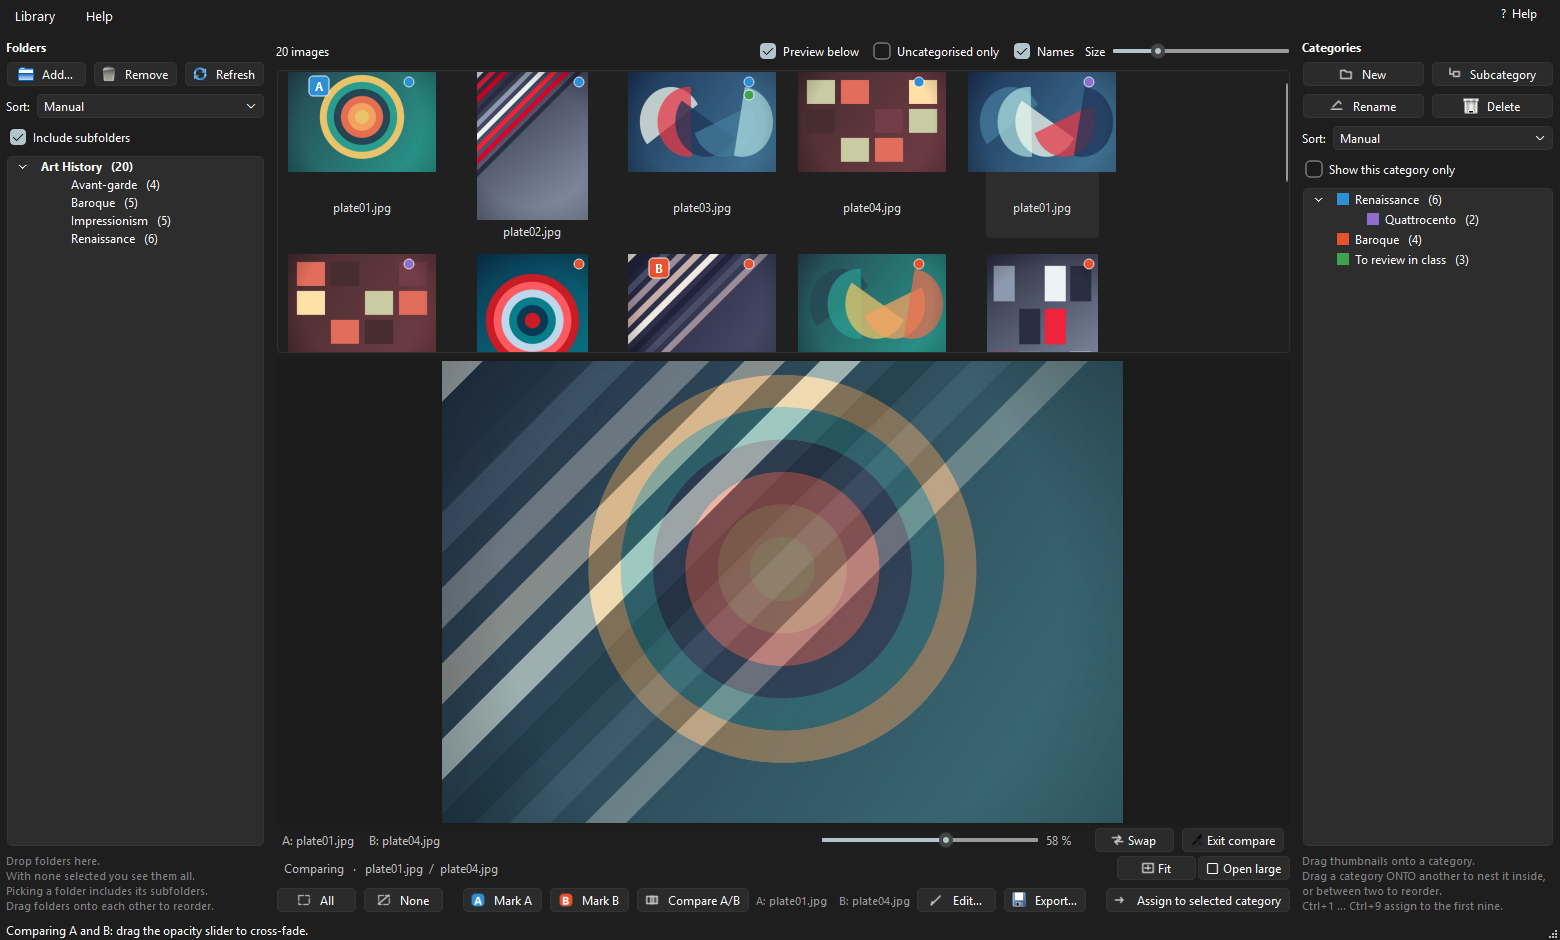
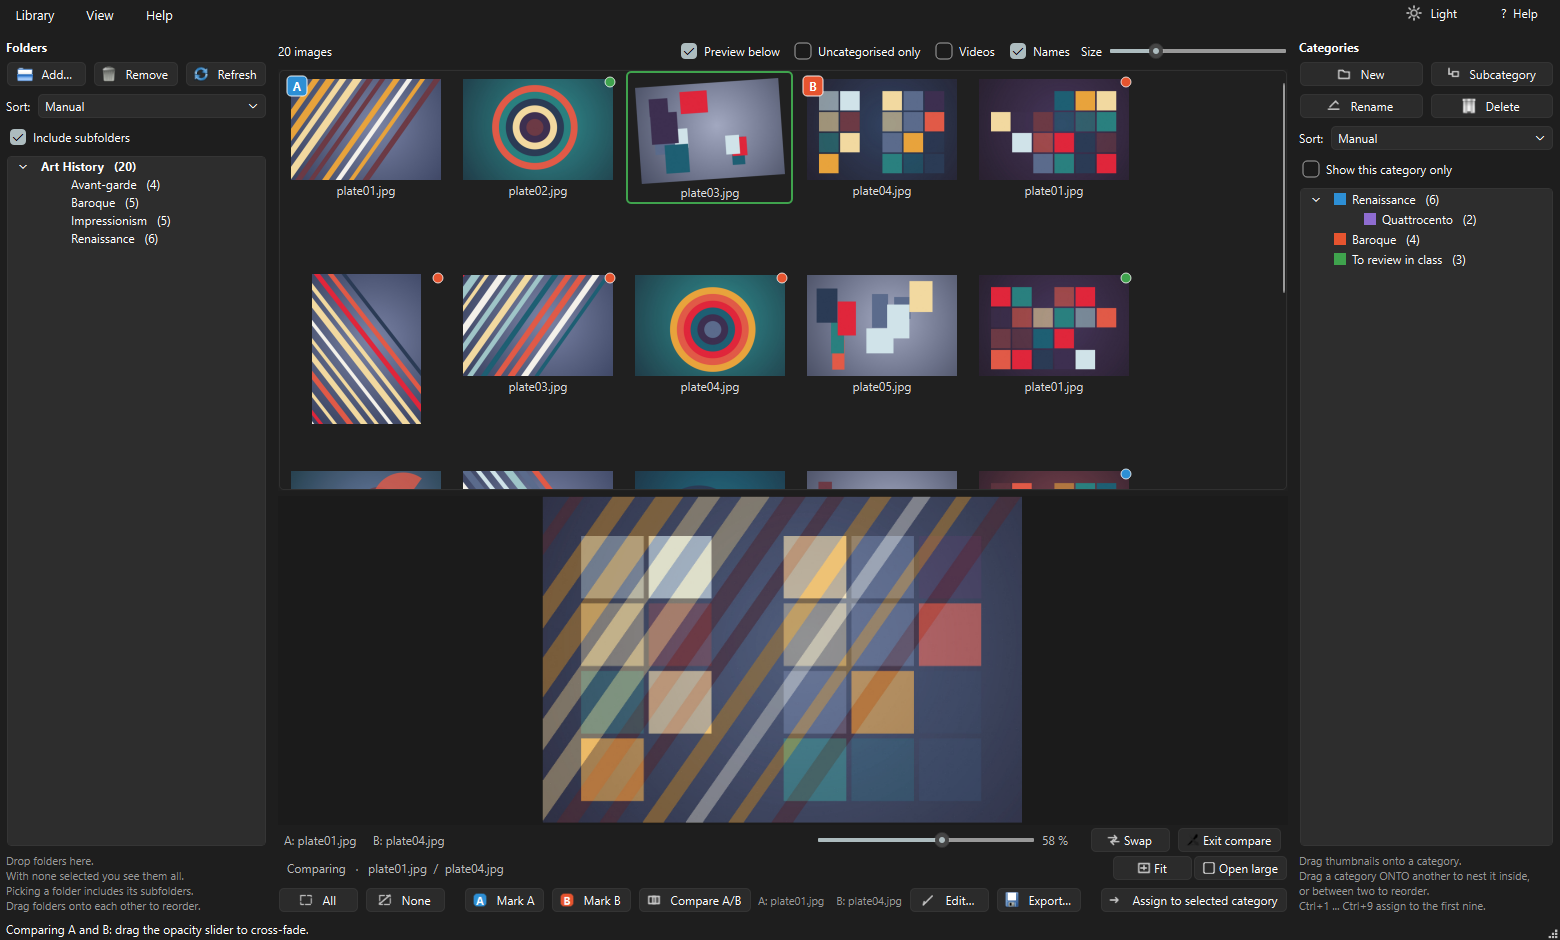
Refresh README screenshots for 1.3.1
The three screenshots dated from 1.0. They are retaken from the current
version, at the same sizes (1560x940 and 1150x880):

- screenshot.png: the blue selection frame, an edited plate with its green
  frame, the Videos checkbox, the View menu and the theme button.
- compare.png: the A/B comparison.
- editor.png: a plate straightened with the new Angle control, annotated.

A new video.png shows the player on a keyframe, with keyframes on the time
bar and video thumbnails with their duration, in the light theme. It goes
into the video section of the README.

As before, everything is drawn from generated abstract plates and clips:
no personal image or path appears. Each window is rendered straight into a
1:1 image rather than grabbed from the screen, so the result does not
depend on the display scaling.

diff --git a/README.md b/README.md
@@ -89,7 +89,7 @@ pixels*: the eraser removes the whole stroke you click on, and if you rotate
 the image afterwards, the drawing rotates with it. Right-click rotates or
 flips every selected image at once.
 
-![The editor, with annotations on an image](docs/editor.png)
+![The editor, with a plate straightened by a few degrees and annotated](docs/editor.png)
 
 **Videos too, if you want them**
 Tick *Videos* above the thumbnails (off by default) and video files — mp4, mov,
@@ -101,6 +101,8 @@ Step **frame by frame** and set **keyframes** on the frames that matter: they
 show as amber diamonds on the time bar, jump from one to the next, are saved
 with the library and undo with `Ctrl+Z`. Every button shows its shortcut when
 you hover over it.
+
+![A video on a keyframe, with keyframes marked on the time bar, in the light theme](docs/video.png)
 
 **Dark or light**
 The **Light / Dark** button in the top-right corner, *View ▸ theme* or
